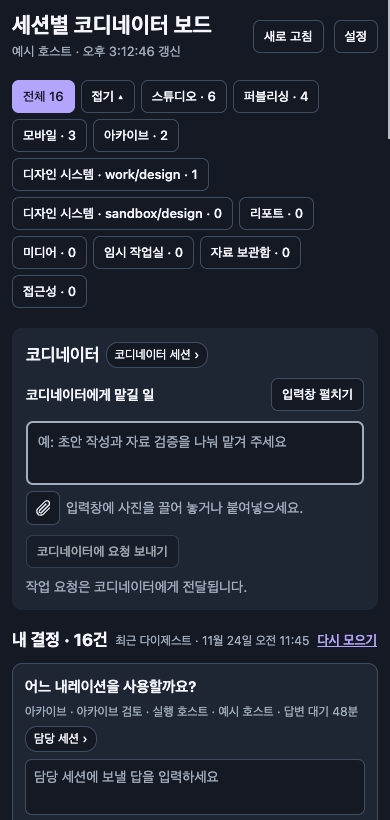
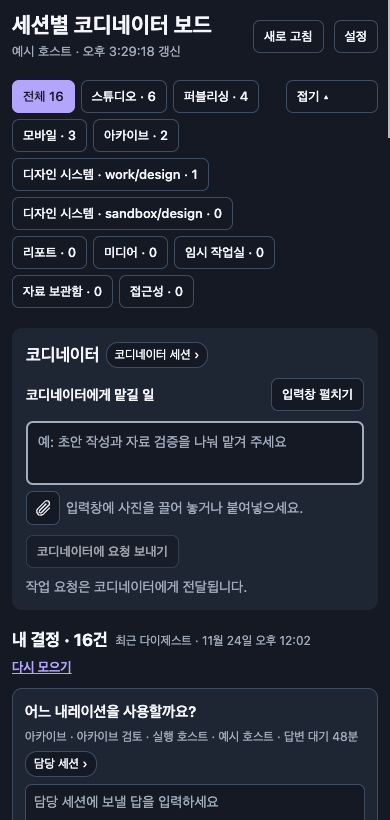
프로젝트 필터의 펼치기 버튼을 오른쪽에 고정하라

diff --git a/client/project-filter-bar.tsx b/client/project-filter-bar.tsx
@@ -3,9 +3,12 @@ import { useSettings } from "@getpaseo/plugin/client";
 import { useState } from "react";
 import { ScrollView, Text, View } from "react-native";
 import { z } from "zod";
-import { Button, type Theme } from "./controls";
+import { Button, ButtonLabelMeasure, type Theme } from "./controls";
 import { useBoardLanguage } from "./language";
 import { visibleProjectFilters, type ProjectFilter } from "./project-filters";
+
+const gap = 6;
+const toggleWidth = 92;
 
 const preference = defineSettings({
   id: "project-filter-view", scope: "device", version: 1,
@@ -26,8 +29,14 @@ export function ProjectFilterBar({ groups, selected, total, clear, toggle, theme
   const saved = useSettings(preference);
   const [temporary, setTemporary] = useState<boolean | null>(null);
   const [saveFailed, setSaveFailed] = useState(false);
-  const expanded = temporary ?? (saved.status === "ready" && saved.values.expanded);
-  const { visible, hiddenCount } = visibleProjectFilters(groups, selected, expanded);
+  const [rowWidth, setRowWidth] = useState(0);
+  const [allWidth, setAllWidth] = useState(0);
+  const [chipWidths, setChipWidths] = useState<Record<string, number>>({});
+  const chipLabel = (group: ProjectFilter) => `${group.label} · ${group.count}`;
+  const { ordered, collapsed, hiddenCount, showToggle } = visibleProjectFilters(groups, selected, {
+    rowWidth, allWidth, toggleWidth, gap, chipWidth: group => chipWidths[chipLabel(group)] ?? Number.POSITIVE_INFINITY,
+  });
+  const expanded = showToggle && (temporary ?? (saved.status === "ready" && saved.values.expanded));
 
   async function setExpanded(next: boolean) {
     setTemporary(next);
@@ -41,28 +50,37 @@ export function ProjectFilterBar({ groups, selected, total, clear, toggle, theme
   }
 
   const label = t("프로젝트 필터", "Project filters");
-  const all = <Button theme={theme} label={t(`전체 ${total}`, `All ${total}`)} singleLine selected={!selected.size} onPress={clear} />;
-  const expand = <Button theme={theme} expanded={expanded} singleLine disabled={saved.saving}
-    label={expanded ? t("접기 ▴", "Collapse ▴") : t(`+${hiddenCount}개 ▾`, `+${hiddenCount} more ▾`)}
-    accessibilityLabel={expanded ? t("프로젝트 필터 접기", "Collapse project filters")
-      : t(`프로젝트 필터 ${hiddenCount}개 더 보기`, `Show ${hiddenCount} more project filters`)}
-    onPress={() => void setExpanded(!expanded)} />;
-  const chips = visible.map(group => <View key={JSON.stringify(group.ids)} style={{ maxWidth: expanded ? "100%" : 190 }}>
+  const all = <Button theme={theme} label={t(`전체 ${total}`, `All ${total}`)} singleLine selected={!selected.size} onPress={clear}
+    onLayout={event => setAllWidth(event.nativeEvent.layout.width)} />;
+  const expandLabel = hiddenCount ? `+${hiddenCount} ▾` : t("펼치기 ▾", "Expand ▾");
+  const chips = (expanded ? ordered : collapsed).map(group => <View key={JSON.stringify(group.ids)} style={expanded ? { maxWidth: "100%" } : undefined}>
     <Button theme={theme} toggle singleLine={!expanded} selected={group.ids.some(id => selected.has(id))}
-      label={`${group.label} · ${group.count}`} onPress={() => toggle(group)} />
+      label={chipLabel(group)} onPress={() => toggle(group)} />
   </View>);
 
   if (!groups.length) return null;
   return <View style={{ gap: 5 }} accessibilityLabel={label}>
-    <View style={{ flexDirection: "row", flexWrap: expanded ? "wrap" : "nowrap", alignItems: "center", gap: 6 }}>
-      {all}
-      {expanded ? <>{expand}{chips}</> : <>
-        {visible.length > 0 && <ScrollView horizontal style={{ flexGrow: 0, flexShrink: 1, minWidth: 0 }}
-          contentContainerStyle={{ alignItems: "center", gap: 6 }}>
-          {chips}
-        </ScrollView>}
-        {hiddenCount > 0 && expand}
-      </>}
+    <View onLayout={event => setRowWidth(event.nativeEvent.layout.width)} style={{ flexDirection: "row", alignItems: "flex-start", gap }}>
+      {expanded ? <View style={{ flex: 1, minWidth: 0, flexDirection: "row", flexWrap: "wrap", gap }}>{all}{chips}</View>
+        : <View style={{ flex: 1, minWidth: 0, flexDirection: "row", alignItems: "center", gap }}>
+          {all}
+          {chips.length > 0 && <ScrollView horizontal style={{ flexGrow: 0, flexShrink: 1, minWidth: 0 }}
+            contentContainerStyle={{ alignItems: "center", gap }}>{chips}</ScrollView>}
+        </View>}
+      {showToggle && <View style={{ width: toggleWidth, flexShrink: 0 }}>
+        <Button theme={theme} expanded={expanded} singleLine disabled={saved.saving}
+          label={expanded ? t("접기 ▴", "Collapse ▴") : expandLabel}
+          accessibilityLabel={expanded ? t("프로젝트 필터 접기", "Collapse project filters") : t("프로젝트 필터 펼치기", "Expand project filters")}
+          onPress={() => void setExpanded(!expanded)} />
+      </View>}
+    </View>
+    <View accessibilityElementsHidden importantForAccessibility="no-hide-descendants" aria-hidden
+      style={{ position: "absolute", top: 0, left: 0, right: 0, height: 0, overflow: "hidden", alignItems: "flex-start" }}>
+      {[...new Set(groups.map(chipLabel))].map(value => <ButtonLabelMeasure key={value} label={value}
+        onLayout={event => {
+          const { width } = event.nativeEvent.layout;
+          setChipWidths(previous => previous[value] === width ? previous : { ...previous, [value]: width });
+        }} />)}
     </View>
     {saveFailed && <Text accessibilityLiveRegion="polite" style={{ color: theme.colors.statusWarning }}>
       {t("필터 열림 상태를 이 기기에 저장하지 못했습니다.", "Could not save the filter view on this device.")}

diff --git a/test/project-filters.test.ts b/test/project-filters.test.ts
@@ -34,26 +34,45 @@ test("unverified or distinct roots remain separate and unique project names stay
   expect(groups.map(group => group.ids)).toEqual([["one"], ["alias"], ["case"]]);
 });
 
-test("the collapsed row prioritizes three busy projects and keeps every current selection", () => {
-  const groups = [
-    { ids: ["idle"], label: "Idle", count: 0 },
-    { ids: ["active", "alias"], label: "Active", count: 2 },
-    { ids: ["largest"], label: "Largest", count: 9 },
-    { ids: ["third"], label: "Third", count: 1 },
-    { ids: ["second"], label: "Second", count: 3 },
-    { ids: ["waiting"], label: "Waiting", count: 0 },
-    { ids: [null], label: "Host-wide", count: 0 },
-  ];
-  const chosen = selectedProjectIds(groups, ["third", "idle", null, "missing"]);
-  expect(visibleProjectFilters(groups, chosen, false)).toEqual({
-    visible: [groups[2], groups[4], groups[1], groups[3], groups[6], groups[0]],
-    hiddenCount: 1,
+const filters = [
+  { ids: ["idle"], label: "Idle", count: 0 },
+  { ids: ["active", "alias"], label: "Active", count: 2 },
+  { ids: ["largest"], label: "Largest", count: 9 },
+  { ids: ["second"], label: "Second", count: 3 },
+];
+const metrics = { allWidth: 64, toggleWidth: 92, gap: 6, chipWidth: () => 74 };
+const layout = (rowWidth: number, selected: ReadonlySet<string | null> = new Set()) =>
+  visibleProjectFilters(filters, selected, { ...metrics, rowWidth });
+
+test("collapsed fitting reserves the toggle width and both gaps", () => {
+  // All + two chips + toggle takes 64 + 2 * (74 + 6) + 92 + 6 = 322 pixels.
+  const justFits = layout(322);
+  expect(justFits.collapsed).toEqual([filters[2], filters[3]]);
+  expect(justFits.hiddenCount).toBe(2);
+  expect(justFits.showToggle).toBe(true);
+  expect(layout(321).collapsed).toEqual([filters[2]]);
+  expect(justFits.ordered).toEqual([filters[2], filters[3], filters[1], filters[0]]);
+});
+
+test("all chips fit without a toggle at the exact full-row width", () => {
+  expect(layout(384)).toEqual({
+    ordered: [filters[2], filters[3], filters[1], filters[0]],
+    collapsed: [filters[2], filters[3], filters[1], filters[0]],
+    hiddenCount: 0,
+    showToggle: false,
   });
-  expect(visibleProjectFilters(groups, chosen, true)).toEqual({
-    visible: [groups[2], groups[4], groups[1], groups[3], groups[6], groups[0], groups[5]],
-    hiddenCount: 1,
-  });
-  expect(visibleProjectFilters([], chosen, false)).toEqual({ visible: [], hiddenCount: 0 });
+  expect(layout(383).showToggle).toBe(true);
+  expect(visibleProjectFilters([], new Set(), { ...metrics, rowWidth: 0 }).showToggle).toBe(false);
+});
+
+test("selected chips get space first and remain reachable on an overflowing row", () => {
+  const chosen = selectedProjectIds(filters, ["idle"]);
+  expect(layout(322, chosen).collapsed).toEqual([filters[2], filters[0]]);
+  const allSelected = new Set(filters.flatMap(filter => filter.ids));
+  const narrow = layout(200, allSelected);
+  expect(narrow.collapsed).toEqual(narrow.ordered);
+  expect(narrow.hiddenCount).toBe(0);
+  expect(narrow.showToggle).toBe(true);
 });
 
 test("temporary directory labels respect path boundaries and macOS aliases", () => {

diff --git a/client/controls.tsx b/client/controls.tsx
@@ -1,16 +1,24 @@
 import type { PluginScreenProps } from "@getpaseo/plugin/client";
-import { Pressable, Text } from "react-native";
+import { Pressable, Text, View, type ViewProps } from "react-native";
 
 export type Theme = PluginScreenProps["theme"];
-export function Button({ label, accessibilityLabel, describedBy, onPress, theme, selected = false, disabled = false, toggle = false, expanded, singleLine }: {
-  label: string; accessibilityLabel?: string; describedBy?: string; onPress: () => void; theme: Theme; selected?: boolean; disabled?: boolean; toggle?: boolean; expanded?: boolean; singleLine?: boolean;
+const buttonFrame = { borderRadius: 7, paddingHorizontal: 10, paddingVertical: 7, borderWidth: 1 };
+const buttonText = { fontSize: 13, fontWeight: "500" as const };
+
+export function ButtonLabelMeasure({ label, onLayout }: { label: string; onLayout: ViewProps["onLayout"] }) {
+  return <View onLayout={onLayout} style={buttonFrame}>
+    <Text numberOfLines={1} style={buttonText}>{label}</Text>
+  </View>;
+}
+
+export function Button({ label, accessibilityLabel, describedBy, onPress, theme, selected = false, disabled = false, toggle = false, expanded, singleLine, onLayout }: {
+  label: string; accessibilityLabel?: string; describedBy?: string; onPress: () => void; theme: Theme; selected?: boolean; disabled?: boolean; toggle?: boolean; expanded?: boolean; singleLine?: boolean; onLayout?: ViewProps["onLayout"];
 }) {
   const c = theme.colors;
   return (
-    <Pressable accessibilityRole={toggle ? "checkbox" : "button"} aria-checked={toggle ? selected : undefined} aria-expanded={expanded} aria-describedby={describedBy} accessibilityLabel={accessibilityLabel ?? label} accessibilityState={toggle ? { disabled, checked:selected } : { disabled, selected, expanded }} disabled={disabled} onPress={onPress}
-      style={({ pressed }) => ({ borderRadius: 7, paddingHorizontal: 10, paddingVertical: 7, opacity: disabled || pressed ? 0.6 : 1,
-        borderWidth: 1, borderColor: selected ? c.accent : c.border, backgroundColor: selected ? c.accent : c.surface0 })}>
-      <Text numberOfLines={singleLine ? 1 : undefined} style={{ fontSize: 13, fontWeight: "500", color: selected ? c.accentForeground : c.foreground }}>{label}</Text>
+    <Pressable accessibilityRole={toggle ? "checkbox" : "button"} aria-checked={toggle ? selected : undefined} aria-expanded={expanded} aria-describedby={describedBy} accessibilityLabel={accessibilityLabel ?? label} accessibilityState={toggle ? { disabled, checked:selected } : { disabled, selected, expanded }} disabled={disabled} onPress={onPress} onLayout={onLayout}
+      style={({ pressed }) => ({ ...buttonFrame, opacity: disabled || pressed ? 0.6 : 1, borderColor: selected ? c.accent : c.border, backgroundColor: selected ? c.accent : c.surface0 })}>
+      <Text numberOfLines={singleLine ? 1 : undefined} style={{ ...buttonText, color: selected ? c.accentForeground : c.foreground }}>{label}</Text>
     </Pressable>
   );
 }

diff --git a/client/project-filters.ts b/client/project-filters.ts
@@ -30,11 +30,32 @@ export function toggleProjectFilter(groups: readonly ProjectGroup[], chosen: rea
     : [...active, ...group.ids];
 }
 
-export function visibleProjectFilters(groups: readonly ProjectFilter[], selected: ReadonlySet<ProjectId>, expanded: boolean) {
+type FilterMetrics = {
+  rowWidth: number;
+  allWidth: number;
+  toggleWidth: number;
+  gap: number;
+  chipWidth: (group: ProjectFilter) => number;
+};
+
+export function visibleProjectFilters(groups: readonly ProjectFilter[], selected: ReadonlySet<ProjectId>,
+  { rowWidth, allWidth, toggleWidth, gap, chipWidth }: FilterMetrics) {
   const ordered = [...groups].sort((a, b) => b.count - a.count || a.label.localeCompare(b.label));
-  const priority = new Set(ordered.filter(group => group.count > 0).slice(0, 3));
-  const collapsed = ordered.filter(group => priority.has(group) || group.ids.some(id => selected.has(id)));
-  return { visible: expanded ? ordered : collapsed, hiddenCount: ordered.length - collapsed.length };
+  const chips = ordered.map(group => ({ group, space: chipWidth(group) + gap, pinned: group.ids.some(id => selected.has(id)) }));
+  const chipSpace = chips.reduce((total, chip) => total + chip.space, 0);
+  if (!chips.length || allWidth + chipSpace <= rowWidth) {
+    return { ordered, collapsed: ordered, hiddenCount: 0, showToggle: false };
+  }
+
+  const pinnedSpace = chips.reduce((total, chip) => total + (chip.pinned ? chip.space : 0), 0);
+  let available = rowWidth - allWidth - toggleWidth - gap - pinnedSpace;
+  const collapsed = chips.flatMap(({ group, pinned, space }) => {
+    if (pinned) return [group];
+    if (space > available) return [];
+    available -= space;
+    return [group];
+  });
+  return { ordered, collapsed, hiddenCount: ordered.length - collapsed.length, showToggle: true };
 }
 
 export function isTemporaryProject(path: string) {

diff --git a/OVERVIEW.md b/OVERVIEW.md
@@ -78,7 +78,7 @@ Project progress shows occupied lanes side by side on desktop and stacked on a p
 
 Project owners can supply independent records in `tracked-decisions.json` in the plugin data directory, or link existing project ledgers through `tracked-sources.json`. This retains manual checks, multiple questions tied to one session, and release decisions that include a second question. Recording a choice closes that version of the record. Sending a message and confirming a GitHub merge are separate actions. [Configuration example](README.md#프로젝트별-칸반과-결정-원장)
 
-Below the board title, one row shows **All**, up to three projects with the most pending decisions, and your selected filters. Scroll the row horizontally on narrow screens. Choose **+N more** to open the full list or **Collapse** to return to one row. Your device remembers the view. Managed projects using the same folder share one filter. Separate folders with the same title show a path suffix. Counts show pending decisions, with shared pull requests counted once. Select any combination of filters to update **My decisions**, **Recent decision activity**, and **Session progress** together. Press a selected filter to clear it, or choose **All** to reset.
+Below the board title, one row shows **All**, any selected filters, and as many other projects as fit, ordered by pending decision count. Scroll horizontally on narrow screens if the selected filters fill the row. Use **+N** on the right to expand the list, and **Collapse** in the same place to return to one row. The button is hidden when all filters fit. Your device remembers the view. Managed projects using the same folder share one filter. Separate folders with the same title show a path suffix. Counts show pending decisions, with shared pull requests counted once. Select any combination of filters to update **My decisions**, **Recent decision activity**, and **Session progress** together. Press a selected filter to clear it, or choose **All** to reset.
 
 **My decisions** shows the last digest time when available. **Refresh digest** appears after three hours if a new, unclassified work session question has arrived since that digest.
 
